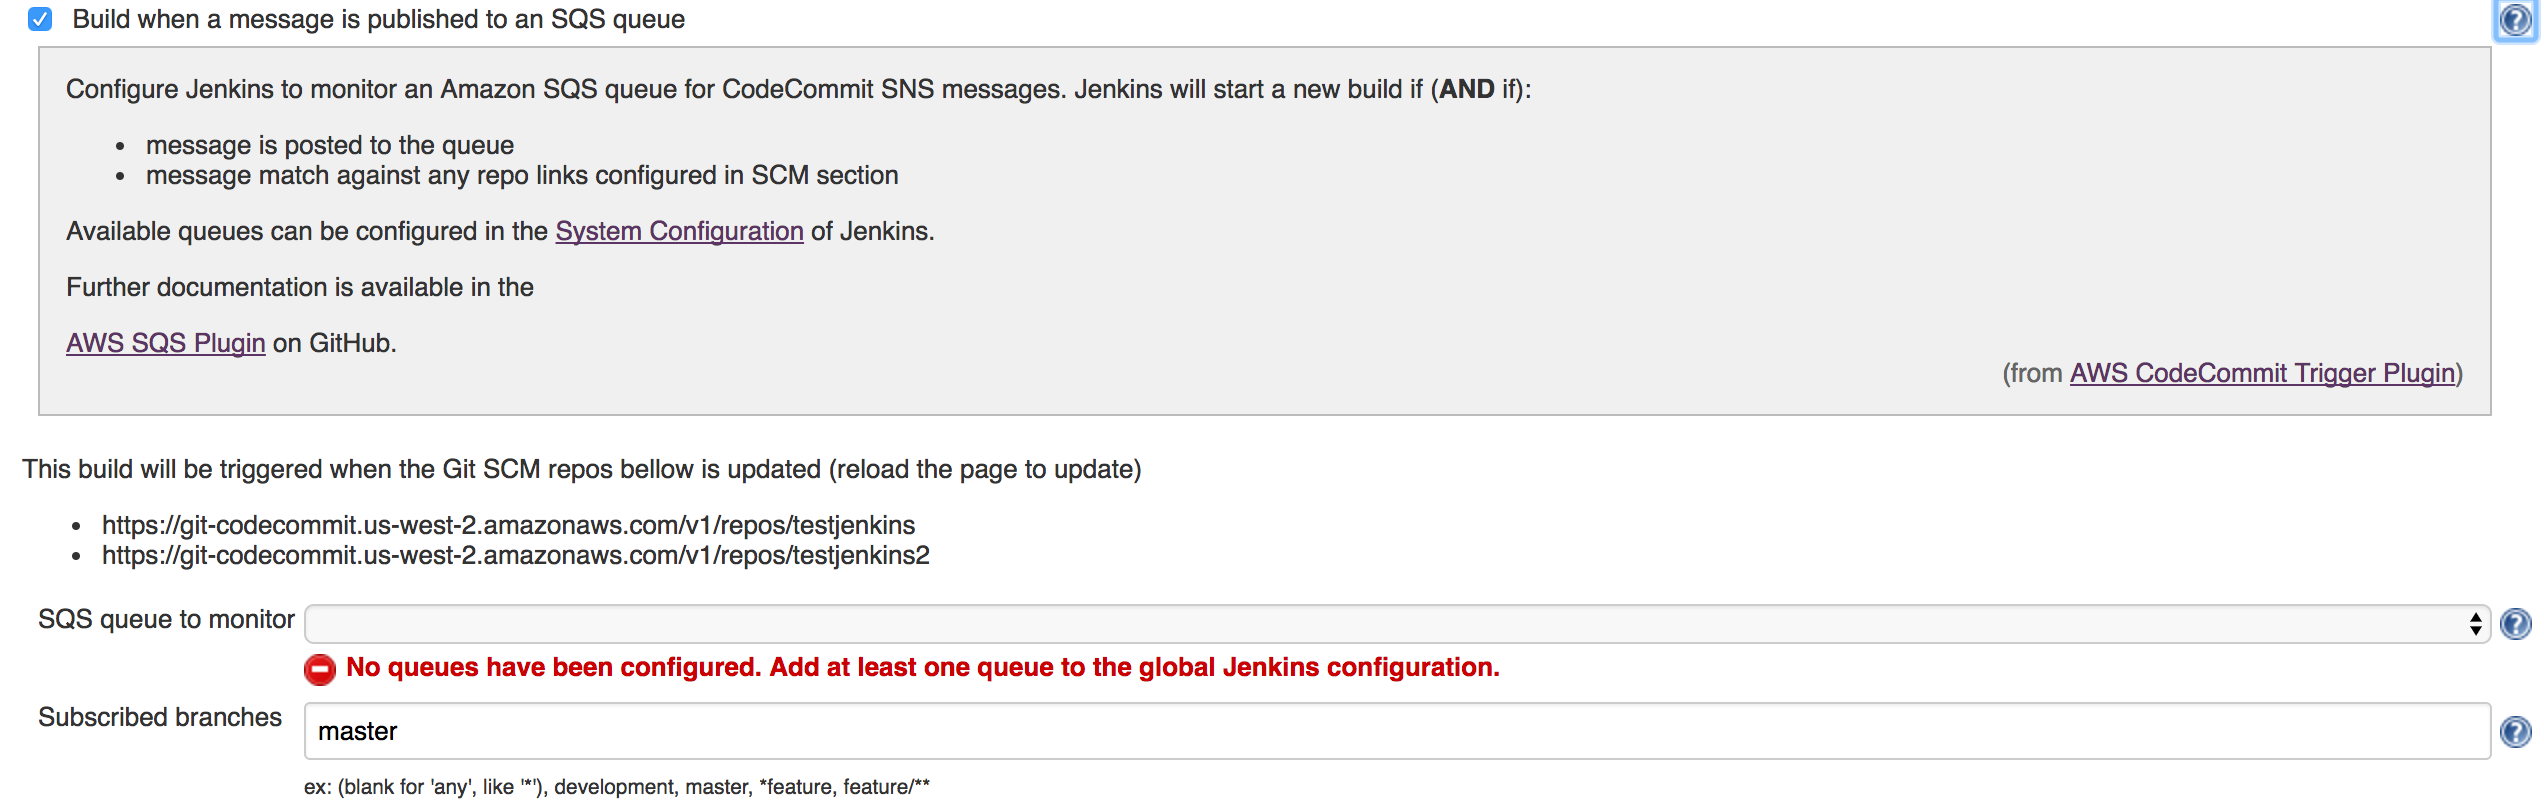
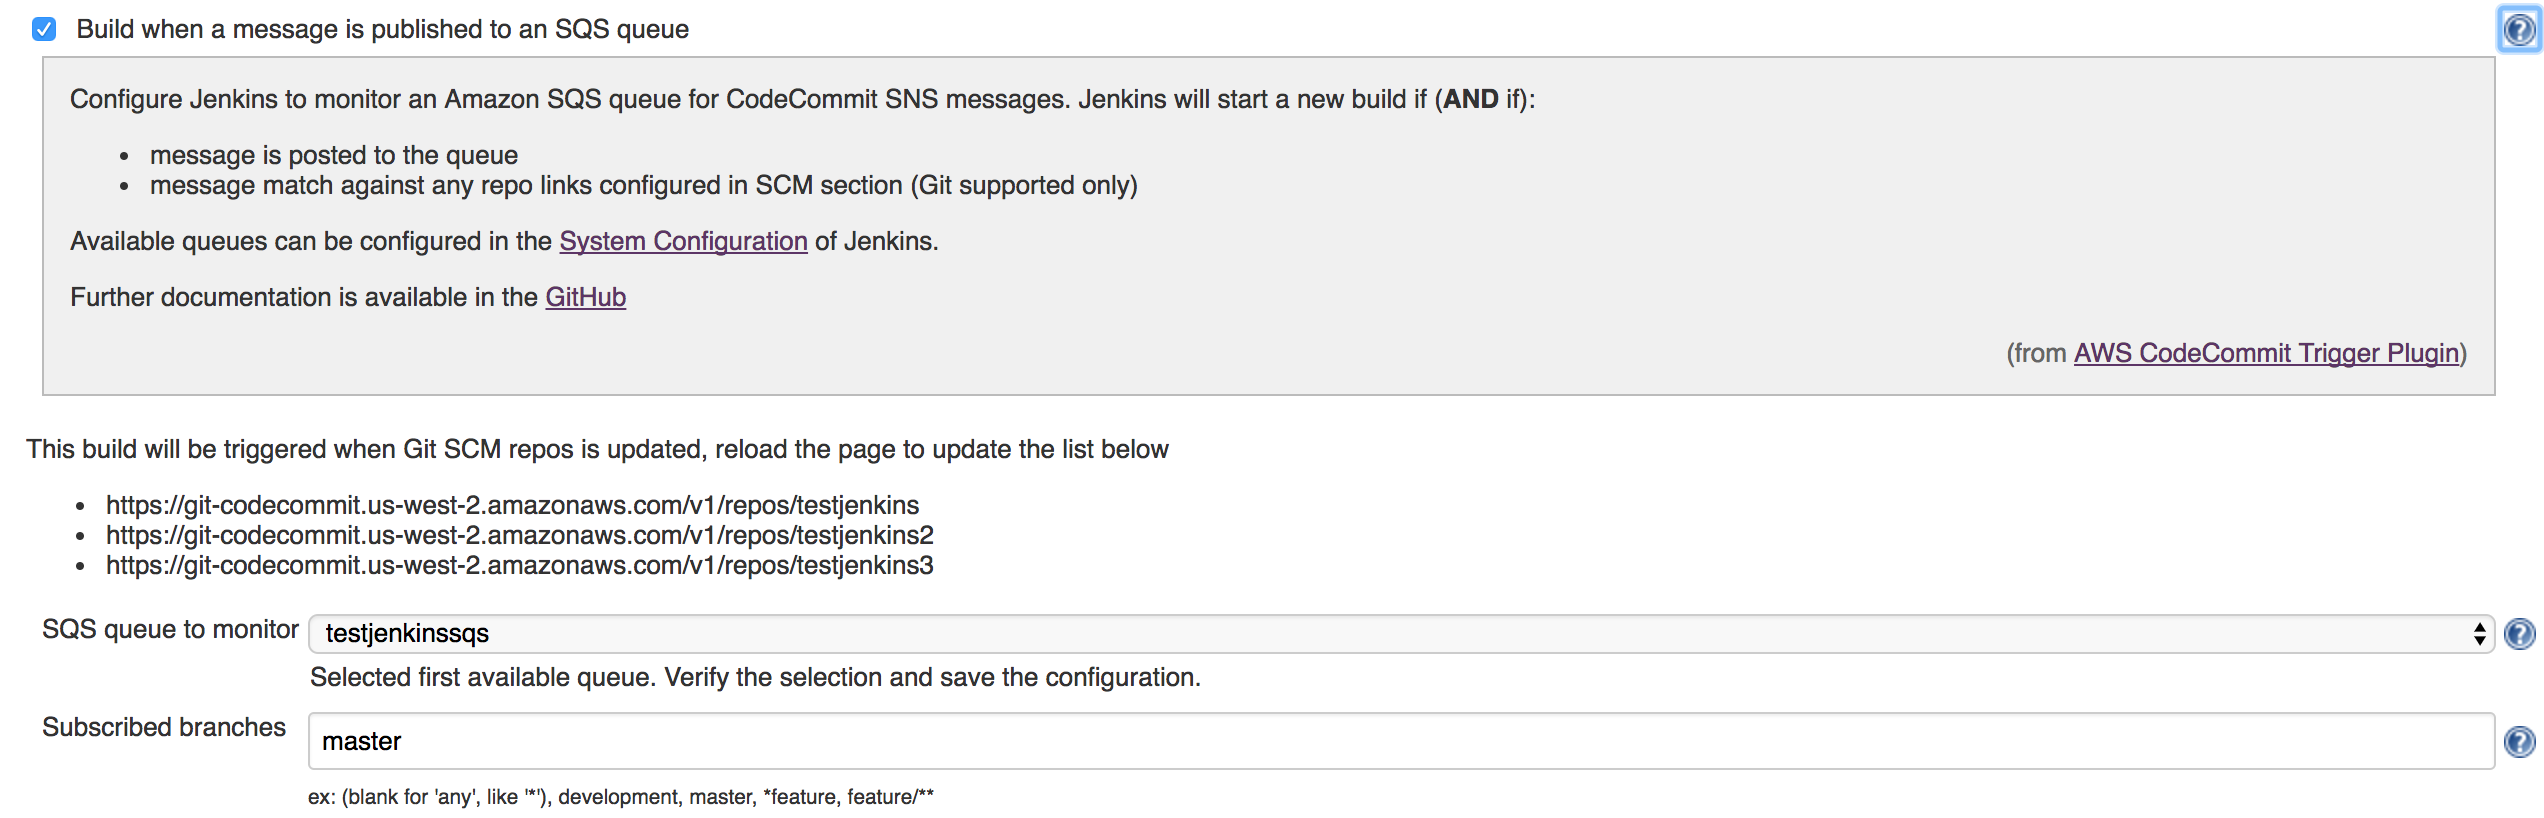
Update text & fix findbugs warnings

diff --git a/src/main/resources/com/ribose/jenkins/plugin/awscodecommittrigger/SQSTrigger/help.html b/src/main/resources/com/ribose/jenkins/plugin/awscodecommittrigger/SQSTrigger/help.html
@@ -11,8 +11,5 @@
         Available queues can be configured in the <a href="/jenkins/configure">System Configuration</a> of Jenkins.
     </p>
 
-    <p>Further documentation is available in the</p>
-
-    <a href="https://github.com/jenkinsci/aws-codecommit-trigger-plugin">AWS SQS Plugin</a>
-    on GitHub.
+    <p>Further documentation is available in the <a href="https://github.com/jenkinsci/aws-codecommit-trigger-plugin">GitHub</a></p>
 </div>

diff --git a/src/main/java/com/ribose/jenkins/plugin/awscodecommittrigger/SQSTrigger.java b/src/main/java/com/ribose/jenkins/plugin/awscodecommittrigger/SQSTrigger.java
@@ -26,6 +26,7 @@ import com.ribose.jenkins.plugin.awscodecommittrigger.interfaces.*;
 import com.ribose.jenkins.plugin.awscodecommittrigger.logging.Log;
 import com.ribose.jenkins.plugin.awscodecommittrigger.model.events.ConfigurationChangedEvent;
 import com.ribose.jenkins.plugin.awscodecommittrigger.model.events.EventBroker;
+import edu.umd.cs.findbugs.annotations.SuppressFBWarnings;
 import hudson.DescriptorExtensionList;
 import hudson.Extension;
 import hudson.model.AbstractProject;
@@ -218,7 +219,7 @@ public class SQSTrigger extends Trigger<AbstractProject<?, ?>> implements SQSQue
         });
     }
 
-    @SuppressWarnings("NP_NULL_ON_SOME_PATH")
+    @SuppressFBWarnings("NP_NULL_ON_SOME_PATH")
     public List<String> getScmRepoUrls() {
         if (this.scmRepoUrls == null) {
             this.scmRepoUrls = new ArrayList<>();
